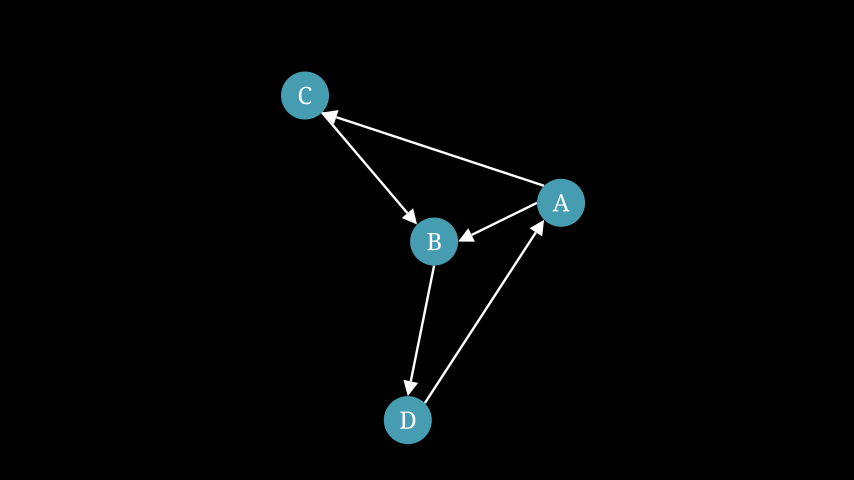
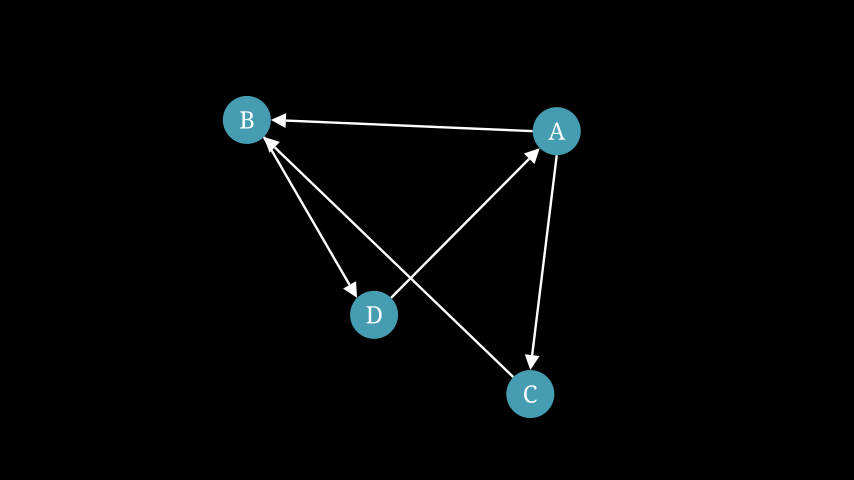
hi

diff --git a/manim_test.py b/manim_test.py
@@ -1,5 +1,7 @@
 from manim import *
 
+#uv run manim -ql -s manim_test.py GenerateGraphImage
+
 class GenerateGraphImage(Scene):
     def construct(self):
         # 1. 你的原始輸入資料：[起點, 終點, 權重]
@@ -8,6 +10,7 @@ class GenerateGraphImage(Scene):
             ["C", "B", 5],
             ["B", "D", 2],
             ["A", "C", 1],
+            # ["A", "GG", 50],
             ["D", "A", 7]
         ]
         